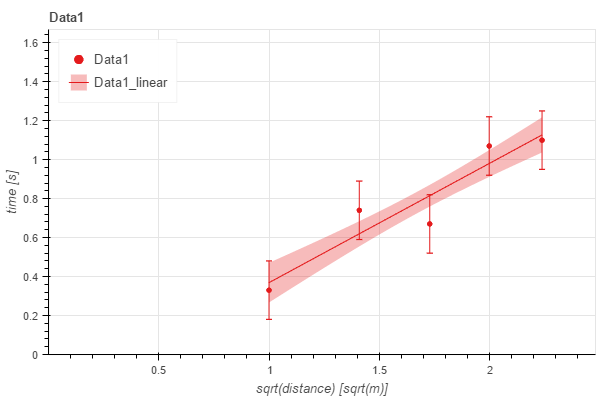
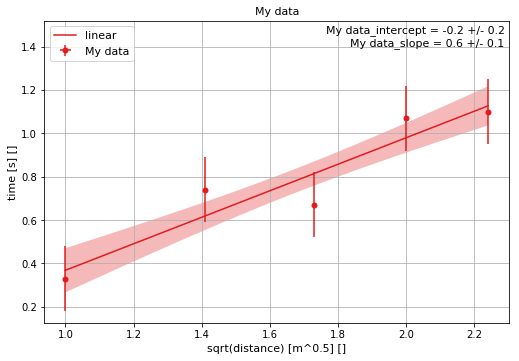
Graphing section added back in

diff --git a/tex/ModelAndExperiment.tex b/tex/ModelAndExperiment.tex
@@ -3,7 +3,7 @@ ch%Copyright 2017 R.D. Martin
 %
 %This book is distributed in the hope that it will be useful, but WITHOUT ANY WARRANTY; without even the implied warranty of MERCHANTABILITY or FITNESS FOR A PARTICULAR PURPOSE.  See the GNU General Public License for more details, http://www.gnu.org/licenses/.
 \chapter{Comparing Model and Experiment}
-\label{chap:2_ModelAndExperiment}
+\label{chap:modelandexperiment}
 In this chapter, we will learn about the process of doing science and lay the foundations for developing skills that will be of use throughout your scientific careers. In particular, we will start to learn how to test a model with an experiment, as well as learn to estimate whether a given result or model makes sense.
 \vspace{1cm}
 \begin{learningObjectives}
@@ -409,6 +409,35 @@ $z=f(x)$ (a function of 1 variable) &$\sigma_z=\left|\frac{df}{dx}\sigma_x \righ
 %5.0 +/- 0.6 m/s
 \end{checkpoint}
 
+\subsection{Using graphs to visualize and analyse data}
+Table \ref{tab:modelandexperiment:kmes2} below reproduces our measurements of how long it took ($t$) for an object to drop a certain distance, $x$.  Chlo\"e's Theory of gravity predicted that the data should be described by the following model:
+\begin{align*}
+t = k \sqrt{x}
+\end{align*}
+where $k$ was an undetermined constant of proportionality.
+
+\begin{center}
+\begin{tabular}{cccc} 
+\textbf{x} [m]&\textbf{t} [s]&\textbf{$\sqrt x$}  [\si{m^{\frac{1}{2}}}]&\textbf{k}  [\si{s.m^{-\frac{1}{2}}}]\\
+\hline
+\hline
+1.00 &0.33 &1.00 &0.33 \\ \hline
+2.00 &0.74 &1.41 &0.52 \\ \hline
+3.00 &0.67 &1.73 &0.39 \\ \hline
+4.00 &1.07 &2.00 &0.54 \\ \hline
+5.00 &1.10 &2.24 &0.49 \\ \hline
+\end{tabular}
+\captionof{table}{\label{tab:modelandexperiment:kmes2} Measurements of the drop times, $t$, for a bowling ball to fall different distances, $x$. We have also computed $\sqrt x$ and the corresponding value of $k$.}
+\end{center}
+
+
+The easiest way to visualize and analyse these data is to plot them on a graph. In particular, if we plot (graph) $t$ versus $\sqrt{x}$, we  expect that the points will fall on a straight line that goes through zero, with a slope of $k$ (if the data are described by Chlo\"e's Theory). In Appendix \ref{app:python}, we show you how you can easily plot these data using the Python programming language as well as find the slope and offset of the line that best fits the data, as show in Figure \ref{fig:modelandexperiment:tvssqx}. 
+
+\capfig{0.75\textwidth}{figures/Python/tvssqx.png}{\label{fig:modelandexperiment:tvssqx} Graph of $t$ versus $\sqrt{x}$ and line of best fit.}
+
+When plotting data and fitting them to a line (or other function), it is important to make sure that the values have at least an uncertainty in the quantity that is being plotted on the $y$ axis. In this case, we have assumed that all of the measurements of time have an uncertainty of $\SI{0.15}{s}$ and that the measurements of the distance have no (or negligible) uncertainties.
+
+Since we expect the slope of the data to be $k$, fitting the data provides us a with method to determine $k$ by using all of the data points. In this case, we find that $k=\SI{0.61\pm 0.13}{s.m^{-\frac{1}{2}}}$. \textbf{Performing a linear fit of the data is the best way to determine a constant of proportionality between the measurements}. Note that we expect the intercept to be equal to zero according to our model, but the best fit line has an intercept of $\SI{-0.24\pm 0.22}{s}$, which is slightly below, but consistent, with zero. From these data, we would conclude that our measurements are consistent with Chlo\"e's Theory. Again, remember that we can never confirm a theory, we can only exclude it; in this case, we cannot exclude Chlo\"e's Theory.
 
 \subsection{Reporting measured values}
 Now that you know how to attribute an uncertainty to a measured quantity and then propagate that uncertainty to a derived quantity, you are ready to present your measurement to the world. In order to conduct ``good science'', your measurements should be reproducible, clearly presented, and precisely described. Here are general rules to follow when reporting a measured number:

diff --git a/tex/Python.tex b/tex/Python.tex
@@ -155,7 +155,7 @@ By using QExpy, we do not need to tediously calculate the mean and standard devi
 
 
 \subsection{Plotting experimental data with uncertainties}
-In Chapter \ref{chap:ModelAndExperiment} we had presented the data in Table \ref{tab:Python:kmes} which corresponded to our measurements of how long it took ($t$) for an object to drop a certain distance, $x$. We had also introduced  Chlo\"e's Theory of gravity that predicted that the data should be described by the following model:
+In Chapter \ref{chap:modelandexperiment} we had presented the data in Table \ref{tab:Python:kmes} which corresponded to our measurements of how long it took ($t$) for an object to drop a certain distance, $x$. We had also introduced  Chlo\"e's Theory of gravity that predicted that the data should be described by the following model:
 \begin{align*}
 t = k \sqrt{x}
 \end{align*}
@@ -176,7 +176,7 @@ where $k$ was an undetermined constant of proportionality.
 \caption{\label{tab:Python:kmes} Measurements of the drop times, $t$, for a bowling ball to fall different distances, $x$. We have also computed $\sqrt x$ and the corresponding value of $k$. }
 \end{table}
 
-The easiest way to visualize and analyse those data is to plot them. In particular, if we plot (graph) $t$ versus $\sqrt{x}$, we  expect that the points will fall on a straight line that goes through zero, with a slope of $k$ (if the data are described by Chlo\"e's Theory). We can use QExpy to graph the data as well as determine (``fit'') for the slope of the line that best describes the data, since we expect that the slope will correspond to the value of $k$. When plotting data and fitting them to a line (or other function), it is important to make sure that the values have at least an uncertainty in the quantity that is being plotted on the $y$ axis. In this case, we have assumed that all of the measurements of time have an uncertainty of $\SI{0.15}{s}$ and that the measurements of the distance have no (or negligible) uncertainties:
+The easiest way to visualize and analyse those data is to plot them. In particular, if we plot (graph) $t$ versus $\sqrt{x}$, we  expect that the points will fall on a straight line that goes through zero, with a slope of $k$ (if the data are described by Chlo\"e's Theory). We can use QExpy to graph the data as well as determine (``fit'') for the slope of the line that best describes the data, since we expect that the slope will correspond to the value of $k$. When plotting data and fitting them to a line (or other function), it is important to make sure that the values have at least an uncertainty in the quantity that is being plotted on the $y$ axis. In this case, we have assumed that all of the measurements of time have an uncertainty of $\SI{0.15}{s}$ and that the measurements of the distance have no (or negligible) uncertainties. The python code below shows how to use QExpy to plot and fit the data to a straight line.
 
 \begin{python}[caption=Using QExPy to plot and fit linear data]
 #First, we load the QExpy module:
